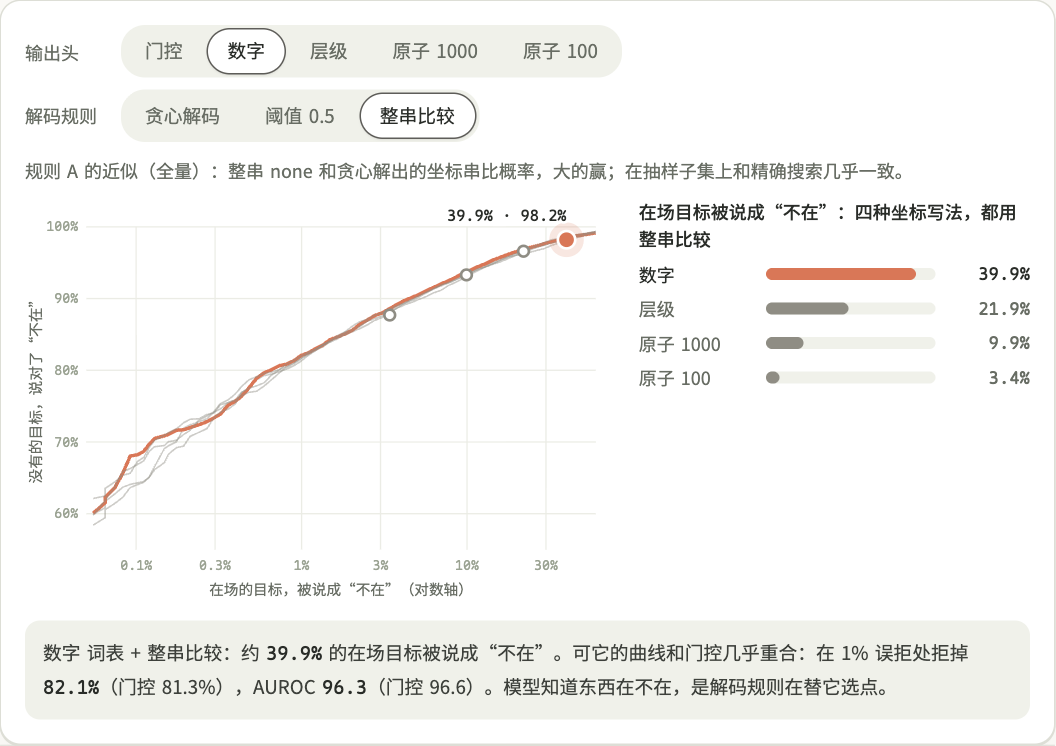
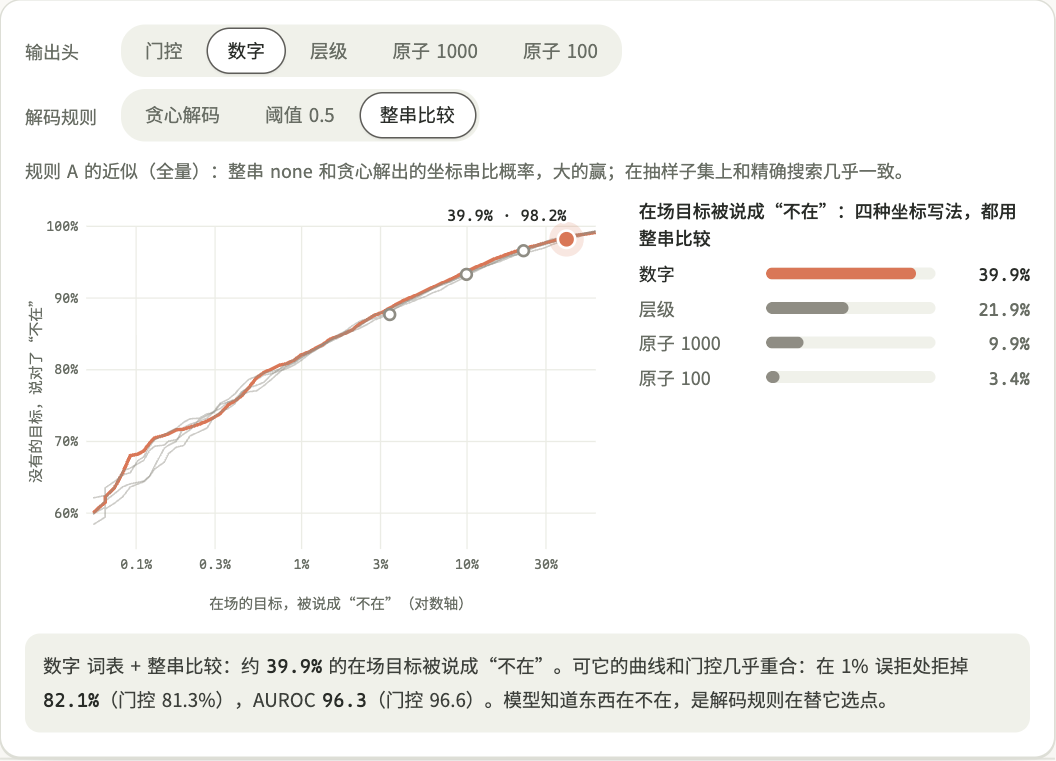
fix(widget): improve Glance mobile layout, text contrast, dial a11y, and lazy video prefetch

diff --git a/content/widgets/glance/style.css b/content/widgets/glance/style.css
@@ -24,14 +24,14 @@
 .g-slider-value{min-width:3.2em;text-align:right;color:var(--clay-ink);font-size:13px}
 
 .g-credits{margin-top:10px}
-.g-card .g-credit{margin:0;font-size:11px;line-height:1.7;color:var(--faint)}
+.g-card .g-credit{margin:0;font-size:11px;line-height:1.7;color:var(--muted)}
 .g-credit a{color:var(--muted);text-decoration:underline;text-decoration-color:var(--line);text-underline-offset:2px}
 
 /* ---- hero */
 .g-hero-top{display:flex;align-items:center;justify-content:space-between;gap:12px;flex-wrap:wrap;margin-bottom:12px}
 .g-badge{font-size:12px;color:var(--muted);white-space:nowrap}
 .g-badge b{color:var(--ink);font-size:13px}
-.g-badge span{color:var(--faint)}
+.g-badge span{color:var(--muted)}
 .g-hero-body{display:grid;grid-template-columns:minmax(0,1.18fr) minmax(0,1fr);gap:16px;align-items:start}
 .g-shot{position:relative;min-width:0}
 .g-shot-frame{position:relative;width:100%;border-radius:10px;overflow:hidden;background:var(--wash);user-select:none}
@@ -66,8 +66,8 @@
 .g-q:hover,.g-q.hot{background:var(--wash)}
 .g-q[aria-pressed=true]{background:color-mix(in srgb,var(--c) 12%,var(--card))}
 .g-q-dot{width:9px;height:9px;border-radius:50%;background:var(--c);transition:background .3s,box-shadow .3s}
-.g-q-kind{font-size:10.5px;color:var(--faint);letter-spacing:.04em}
-.g-q-text{overflow:hidden;text-overflow:ellipsis;white-space:nowrap;color:var(--ink);font-size:12.5px}
+.g-q-kind{font-size:10.5px;color:var(--muted);letter-spacing:.04em}
+.g-q-text{color:var(--ink);font-size:12.5px;line-height:1.35;overflow-wrap:break-word}
 .g-q-val{display:flex;gap:6px;align-items:baseline;justify-content:flex-end;font-size:12px;white-space:nowrap}
 .g-q-val b{color:var(--ink)}
 .g-q-word{font-size:11.5px;color:var(--muted)}
@@ -139,7 +139,7 @@
 .g-lane-labels span{position:absolute;left:0;width:58px;font-size:12px;line-height:20px;margin-top:4px;color:var(--ink);white-space:nowrap}
 .g-lane-labels span::before{content:"";display:inline-block;width:7px;height:7px;border-radius:50%;background:var(--c);margin-right:6px;vertical-align:1px}
 .g-axis{position:relative;height:18px;margin-top:2px}
-.g-axis span{position:absolute;transform:translateX(-50%);font-family:var(--mono);font-size:10.5px;color:var(--faint)}
+.g-axis span{position:absolute;transform:translateX(-50%);font-family:var(--mono);font-size:10.5px;color:var(--muted)}
 .g-agree{display:flex;flex-wrap:wrap;gap:4px 14px;margin-top:8px;font-size:12px;color:var(--muted)}
 .g-agree b{color:var(--ink)}
 .g-agree-item::before{content:"";display:inline-block;width:7px;height:7px;border-radius:50%;background:var(--c);margin-right:5px;vertical-align:1px}
@@ -160,7 +160,7 @@
 .g-dial-body{display:grid;grid-template-columns:minmax(0,1.5fr) minmax(0,1fr);gap:18px;margin-top:8px;align-items:start}
 .g-dial-chart{display:block;width:100%;height:auto;overflow:visible}
 .g-grid line{stroke:var(--grid);stroke-width:1}
-.g-tick{font-family:var(--mono);font-size:10px;fill:var(--faint)}
+.g-tick{font-family:var(--mono);font-size:10px;fill:var(--muted)}
 .g-axis-name{font-size:11px;fill:var(--muted)}
 .g-curve{fill:none;stroke:var(--stone);stroke-width:1.2;opacity:.45;transition:stroke .3s,opacity .3s,stroke-width .3s}
 .g-curve.on{stroke:var(--clay);stroke-width:2.6;opacity:1}
@@ -268,4 +268,4 @@
 .g-hero .g-hero-foot .g-slider{flex:1 1 260px}
 .g-hero .g-slider-label{min-width:6.5em}
 .g-card .g-yname{display:none;margin:0 0 4px;font-size:11.5px;color:var(--muted)}
-@media(max-width:640px){.g-dial-chart .g-axis-name.y{display:none}.g-card .g-yname{display:block}.g-dial-chart .g-tick{font-size:17px}.g-dial-chart .g-axis-name{font-size:16px}.g-pt-label{font-size:17px}}
+@media(max-width:640px){.g-dial-chart .g-axis-name.y{display:none}.g-card .g-yname{display:block}.g-dial-chart .g-tick{font-size:15.5px}.g-dial-chart .g-axis-name{font-size:15px}.g-pt-label{font-size:16.5px}.g-slider{flex-wrap:wrap;gap:4px 10px}.g-slider-label{flex:1 1 100%;white-space:normal}}

diff --git a/content/widgets/glance/video.js b/content/widgets/glance/video.js
@@ -1,7 +1,7 @@
 // Big Buck Bunny, one frame every 4 s, four box questions per frame
 // (video.json: real outputs, plus the author's frame-by-frame labels).
 // Drag along the curves to scrub; the dial sets where "present" starts.
-import { el, EN, json, image, fmt, slider, whenSeen, credit, still } from "./common.js";
+import { el, EN, json, image, fmt, slider, credit } from "./common.js";
 
 const HUE = { rabbit: "clay", squirrel: "violet", butterfly: "teal", car: "blue" };
 const NAME = EN
@@ -68,8 +68,30 @@ export default async function video(stage, { base }) {
     agree,
     el("div.g-credits", {}, credit(["Big Buck Bunny", "© 2008 Blender Foundation · www.bigbuckbunny.org", "https://peach.blender.org/", "CC BY 3.0", "https://creativecommons.org/licenses/by/3.0/", EN ? "First 8 min, 1 frame every 4 s, resized to 448 px wide" : "前 8 分钟，每 4 秒一帧，缩放到 448 px 宽"]))));
 
+  let prefetched = false;
+  function prefetch() {
+    if (prefetched) return;
+    prefetched = true;
+    const order = [...data.t.keys()].sort((a, b) => Math.abs(a - at) - Math.abs(b - at));
+    const next = async () => {
+      for (let i; (i = order.shift()) != null;) {
+        if (frames[i]) continue;
+        try { frames[i] = await image(base + `f/t${String(data.t[i]).padStart(3, "0")}.webp`); } catch {}
+        if (Math.abs(i - at) < 2) draw();
+      }
+    };
+    Promise.all([next(), next(), next(), next()]).then(() => draw());
+  }
+
   function seek(i) {
     at = Math.max(0, Math.min(n - 1, i));
+    if (!frames[at]) {
+      const target = at;
+      image(base + `f/t${String(data.t[target]).padStart(3, "0")}.webp`).then(im => {
+        frames[target] = im;
+        if (at == target) draw();
+      }, () => {});
+    }
     draw();
   }
 
@@ -125,6 +147,7 @@ export default async function video(stage, { base }) {
   }
   function toggle() {
     if (playing) return stop();
+    prefetch();
     if (at >= n - 1) at = 0;
     playing = 1;
     play.classList.add("on");
@@ -138,18 +161,11 @@ export default async function video(stage, { base }) {
     requestAnimationFrame(tick);
   }
 
+  for (const node of [play, svg]) {
+    node.addEventListener("pointerenter", prefetch, { once: true });
+    node.addEventListener("focus", prefetch, { once: true });
+  }
+  svg.addEventListener("pointerdown", prefetch, { once: true });
+
   draw();
-  whenSeen(stage, async () => {
-    const order = [...data.t.keys()].sort((a, b) => Math.abs(a - at) - Math.abs(b - at));
-    const next = async () => {
-      for (let i; (i = order.shift()) != null;) {
-        if (frames[i]) continue;
-        try { frames[i] = await image(base + `f/t${String(data.t[i]).padStart(3, "0")}.webp`); } catch {}
-        if (Math.abs(i - at) < 2) draw();
-      }
-    };
-    await Promise.all([next(), next(), next(), next()]);
-    draw();
-  });
-  if (still.matches) return;
 }

diff --git a/content/widgets/glance/dial.js b/content/widgets/glance/dial.js
@@ -25,16 +25,16 @@ export default async function dial(stage, { base }) {
   const heads = [rawHeads.find(h => h.id == "gate"), ...ar];
   let head = "digits", rule = "map", gateAt = 0.5;
 
-  const W = 440, H = 304, L = 46, R = 12, T = 22, B = 40;
+  const W = 440, H = 314, L = 46, R = 12, T = 22, B = 50;
   const xmin = Math.log10(0.05), xmax = Math.log10(60), ymin = 55, ymax = 100;
   const X = v => L + (Math.log10(Math.max(v, 0.05)) - xmin) / (xmax - xmin) * (W - L - R);
   const Y = v => T + (ymax - v) / (ymax - ymin) * (H - T - B);
-  const svg = el("svg.g-dial-chart", { viewBox: `0 0 ${W} ${H}`, role: "img" });
+  const svg = el("svg.g-dial-chart", { viewBox: `0 0 ${W} ${H}`, role: "img", "aria-label": EN ? "ROC curves of five output heads showing false rejection vs. absent-target rejection across decoding rules" : "五个输出头在不同解码规则下的误拒率与无目标拒答率曲线" });
   const grid = el("g.g-grid");
   for (const v of [0.1, 0.3, 1, 3, 10, 30]) grid.append(el("line", { x1: X(v), x2: X(v), y1: T, y2: H - B }), el("text.g-tick", { x: X(v), y: H - B + 15, "text-anchor": "middle", text: v + "%" }));
   for (const v of [60, 70, 80, 90, 100]) grid.append(el("line", { x1: L, x2: W - R, y1: Y(v), y2: Y(v) }), el("text.g-tick", { x: L - 6, y: Y(v) + 3.5, "text-anchor": "end", text: v + "%" }));
   grid.append(
-    el("text.g-axis-name", { x: (L + W - R) / 2, y: H - 6, "text-anchor": "middle", text: EN ? "Present targets called “not present” (log)" : "在场的目标，被说成“不在”（对数轴）" }),
+    el("text.g-axis-name", { x: (L + W - R) / 2, y: H - 5, "text-anchor": "middle", text: EN ? "Present targets called “not present” (log)" : "在场的目标，被说成“不在”（对数轴）" }),
     el("text.g-axis-name.y", { x: 12, y: (T + H - B) / 2, "text-anchor": "middle", transform: `rotate(-90 12 ${(T + H - B) / 2})`, text: EN ? "Absent targets rejected (N-acc)" : "没有的目标，说对了“不在”" }));
   const path = h => h.curve.filter(c => c[0] >= 0.05).map((c, i) => `${i ? "L" : "M"}${X(c[0]).toFixed(1)} ${Y(c[1]).toFixed(1)}`).join("");
   const curves = el("g", {}, ...heads.map(h => el("path.g-curve", { d: path(h), "data-id": h.id })));
